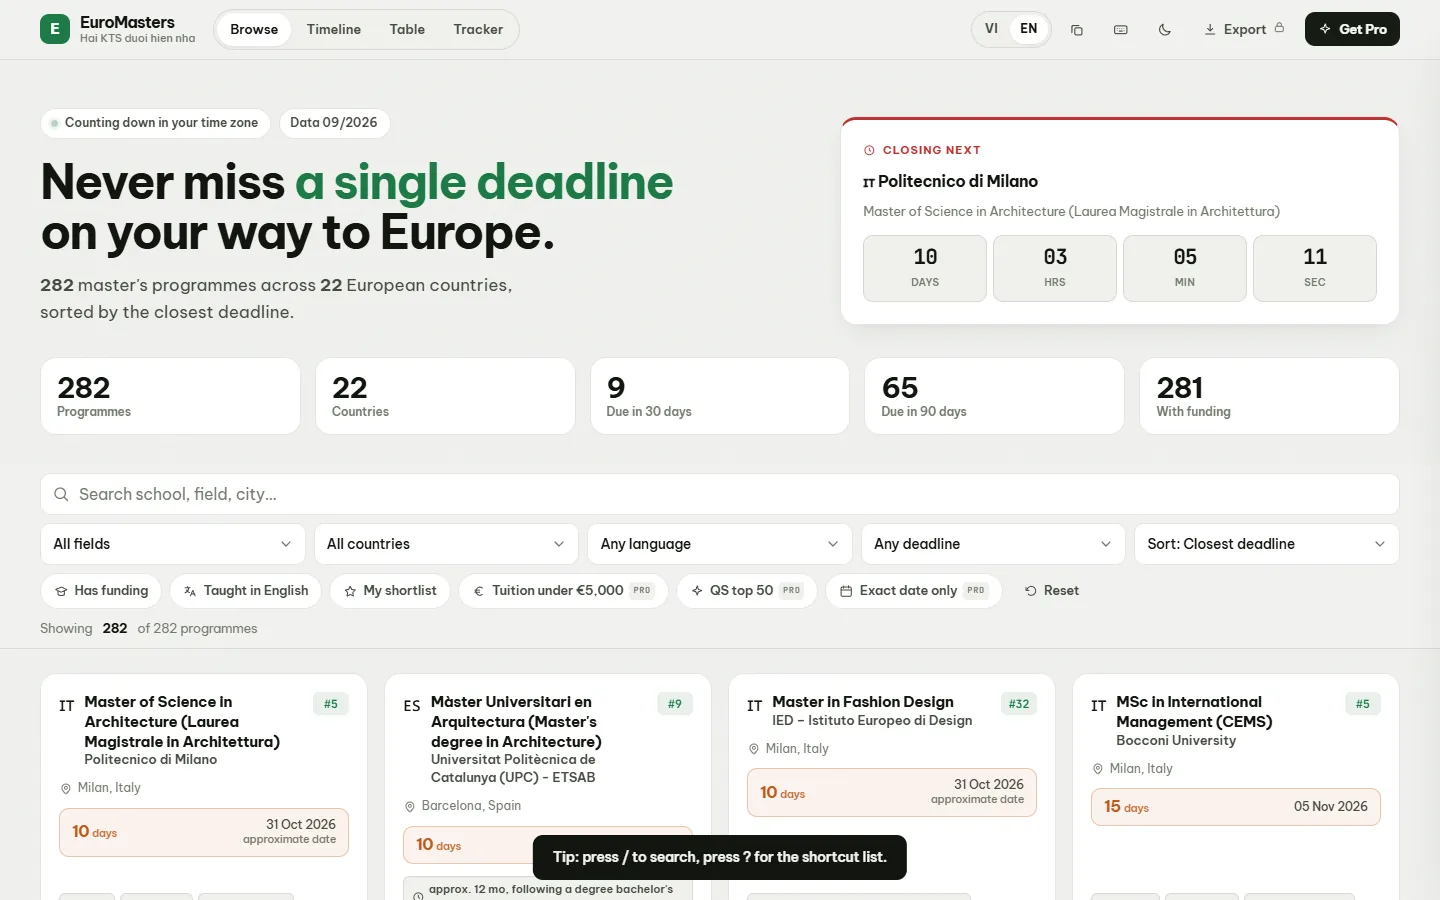
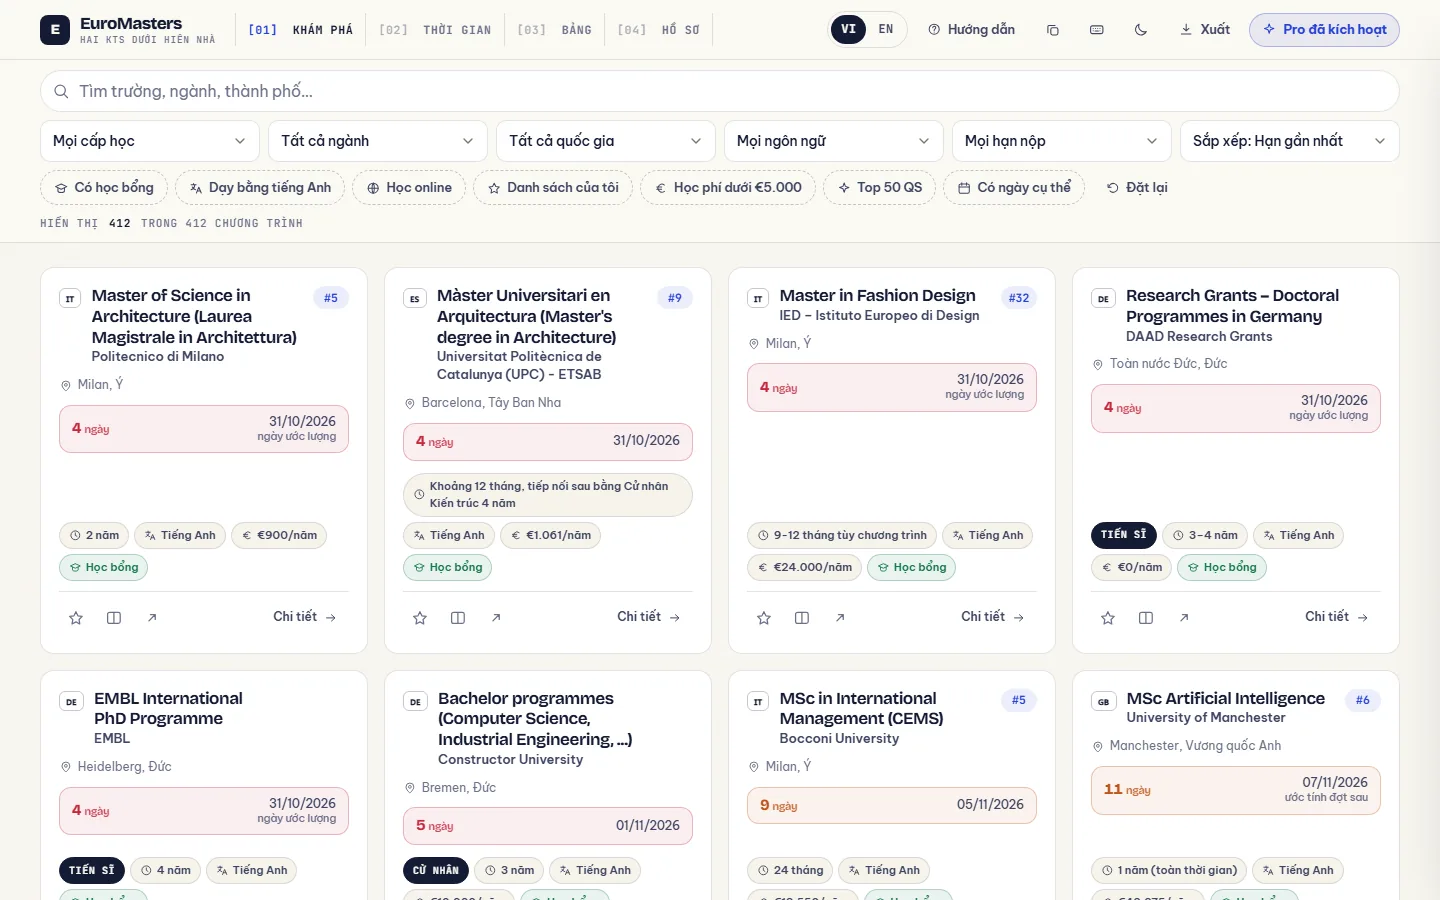
Cập nhật mục nổi bật: 412 chương trình du học (cử nhân, thạc sĩ, tiến sĩ, online)
- Số liệu 282 → 412 chương trình, 22 → 33 quốc gia
- Chữ "Thạc sĩ 2026" đổi thành "Du học 2026", thêm cấp học và học online
- Mục Pro nhắc dùng thử 5 phút
- Ảnh chụp ứng dụng theo giao diện mới

diff --git a/index.html b/index.html
@@ -4,9 +4,9 @@
 <meta charset="UTF-8">
 <meta name="viewport" content="width=device-width, initial-scale=1, viewport-fit=cover">
 <title>Hai KTS dưới hiên nhà</title>
-<meta name="description" content="Hai kiến trúc sư học ở Venezia và Milano: danh sách 282 chương trình thạc sĩ châu Âu 2026 với hạn nộp đếm ngược, cùng các công cụ nhà ở miễn phí. / Two architects trained in Venice and Milan: 282 European master's programmes with live deadlines, plus free housing tools.">
+<meta name="description" content="Hai kiến trúc sư học ở Venezia và Milano: danh sách 412 chương trình cử nhân, thạc sĩ, tiến sĩ và học online ở châu Âu với hạn nộp đếm ngược, cùng các công cụ nhà ở miễn phí. / Two architects trained in Venice and Milan: 412 European bachelor's, master's, PhD and online programmes with live deadlines, plus free housing tools.">
 <meta property="og:title" content="Hai KTS dưới hiên nhà">
-<meta property="og:description" content="282 chương trình thạc sĩ châu Âu 2026 · 282 European master's programmes, 2026">
+<meta property="og:description" content="412 chương trình du học châu Âu 2026: cử nhân, thạc sĩ, tiến sĩ, online · 412 European programmes, 2026">
 <meta property="og:image" content="img/polimi.webp">
 <link rel="preconnect" href="https://fonts.googleapis.com">
 <link rel="preconnect" href="https://fonts.gstatic.com" crossorigin>
@@ -254,7 +254,7 @@ footer{background:var(--lagoon);color:var(--foam);padding-top:clamp(70px,8vw,110
   <div class="wrap">
     <a class="brand" href="https://www.haiktsduoihiennha.com/" target="_blank" rel="noopener" aria-label="Hai KTS dưới hiên nhà · haiktsduoihiennha.com"><b>Hai KTS <i>dưới hiên nhà</i></b><span>Venezia · Milano · Sài Gòn</span></a>
     <ul class="links">
-      <li><a href="#thac-si"><small>01</small><span data-i18n="nav1">Thạc sĩ 2026</span></a></li>
+      <li><a href="#thac-si"><small>01</small><span data-i18n="nav1">Du học 2026</span></a></li>
       <li><a href="#cong-cu"><small>02</small><span data-i18n="nav2">Công cụ nhà ở</span></a></li>
       <li><a href="#tui-minh"><small>03</small><span data-i18n="nav3">Về tụi mình</span></a></li>
       <li><a href="https://www.youtube.com/@HaiKTS_duoihiennha" target="_blank" rel="noopener"><small>▶</small>YouTube</a></li>
@@ -268,30 +268,30 @@ footer{background:var(--lagoon);color:var(--foam);padding-top:clamp(70px,8vw,110
 </header>
 <nav class="sheet" id="sheet" aria-label="Menu">
   <button class="menu-btn close" id="menuClose" data-i18n="close">Đóng</button>
-  <a href="#thac-si"><small>01</small><span data-i18n="nav1">Thạc sĩ 2026</span></a>
+  <a href="#thac-si"><small>01</small><span data-i18n="nav1">Du học 2026</span></a>
   <a href="#cong-cu"><small>02</small><span data-i18n="nav2">Công cụ nhà ở</span></a>
   <a href="#tui-minh"><small>03</small><span data-i18n="nav3">Về tụi mình</span></a>
   <a href="https://www.youtube.com/@HaiKTS_duoihiennha" target="_blank" rel="noopener"><small>▶</small>YouTube</a>
-  <a class="btn solid" style="font:500 15px var(--f-body);margin-top:24px;align-self:flex-start" data-feature href="#" target="_blank" rel="noopener"><span data-i18n="ctaMain">Mở danh sách Thạc sĩ 2026</span> →</a>
+  <a class="btn solid" style="font:500 15px var(--f-body);margin-top:24px;align-self:flex-start" data-feature href="#" target="_blank" rel="noopener"><span data-i18n="ctaMain">Mở danh sách du học 2026</span> →</a>
 </nav>
 
 <main id="top">
-  <section class="hero" aria-label="Thạc sĩ 2026">
+  <section class="hero" aria-label="Du học 2026">
     <img class="poster" src="media/hero-poster.jpg" alt="">
     <video id="heroVid" autoplay muted loop playsinline preload="auto" poster="media/hero-poster.jpg">
       <source src="media/hero-720.mp4" type="video/mp4" media="(max-width: 820px)">
       <source src="media/hero-1080.mp4" type="video/mp4">
     </video>
     <div class="wrap">
-      <div class="tag fade"><span class="pill" data-i18n="pill">Nổi bật kỳ này</span><span class="mono" data-i18n="tagline">Thạc sĩ châu Âu · tuyển sinh 2026–27</span></div>
-      <h1><span class="ln"><span data-i18n="h1a">282 chương trình thạc sĩ.</span></span><span class="ln"><span><em data-i18n="h1b">Không lỡ một hạn nộp.</em></span></span></h1>
+      <div class="tag fade"><span class="pill" data-i18n="pill">Nổi bật kỳ này</span><span class="mono" data-i18n="tagline">Cử nhân · Thạc sĩ · Tiến sĩ · Online · 2026–27</span></div>
+      <h1><span class="ln"><span data-i18n="h1a">412 chương trình du học.</span></span><span class="ln"><span><em data-i18n="h1b">Không lỡ một hạn nộp.</em></span></span></h1>
       <div class="row fade">
         <div>
           <div class="next"><span class="dot"></span><b id="hnDays">22</b><span id="hnText" data-i18n="heroFallback">quốc gia · 10 ngành · hạn nộp đếm ngược từng ngày · miễn phí, có tiếng Việt</span></div>
           <div class="place mono"><span data-i18n="nowShowing">Đang chiếu</span> · <b id="place">Bacino di San Marco, Venezia</b></div>
         </div>
         <div class="acts">
-          <a class="btn solid" data-feature href="#" target="_blank" rel="noopener"><span data-i18n="ctaMain">Mở danh sách Thạc sĩ 2026</span> <span class="ar">→</span></a>
+          <a class="btn solid" data-feature href="#" target="_blank" rel="noopener"><span data-i18n="ctaMain">Mở danh sách du học 2026</span> <span class="ar">→</span></a>
           <a class="btn ghost" href="https://www.youtube.com/@HaiKTS_duoihiennha" target="_blank" rel="noopener">▶ <span data-i18n="watch">Xem video</span></a>
         </div>
       </div>
@@ -308,13 +308,13 @@ footer{background:var(--lagoon);color:var(--foam);padding-top:clamp(70px,8vw,110
         <p class="lead rv" data-i18n="l1">Đọc trực tiếp từ danh sách, nên số ngày luôn đúng với hôm nay.</p>
       </div>
       <div class="stats rv" id="stats">
-        <div class="stat"><b data-k="total">282</b><span data-i18n="s1">chương trình</span></div>
-        <div class="stat"><b data-k="countries">22</b><span data-i18n="s2">quốc gia châu Âu</span></div>
+        <div class="stat"><b data-k="total">412</b><span data-i18n="s1">chương trình</span></div>
+        <div class="stat"><b data-k="countries">33</b><span data-i18n="s2">quốc gia châu Âu</span></div>
         <div class="stat hot"><b data-k="d30">–</b><span data-i18n="s3">đóng trong 30 ngày</span></div>
       </div>
       <div class="rows rv" id="rows"><p class="mono" style="padding:24px 0;color:var(--mute-l)" data-i18n="loading">Đang tải hạn nộp…</p></div>
       <div class="foot1 rv"><span class="mono" data-i18n="approxNote">“Ước tính”: trường công bố hạn theo tháng · luôn kiểm tra lại trên trang trường</span>
-        <a class="btn ink" data-feature href="#" target="_blank" rel="noopener"><span data-i18n="seeAll">Xem cả 282 chương trình</span> <span class="ar">→</span></a></div>
+        <a class="btn ink" data-feature href="#" target="_blank" rel="noopener"><span data-i18n="seeAll">Xem cả 412 chương trình</span> <span class="ar">→</span></a></div>
     </div>
   </section>
 
@@ -325,16 +325,16 @@ footer{background:var(--lagoon);color:var(--foam);padding-top:clamp(70px,8vw,110
           <div class="eyebrow mono rv"><span class="n">01</span><span class="bar"></span><span data-i18n="e1b">Danh sách làm được gì</span></div>
           <h2 class="h2 rv" data-i18n="h2b">Từ “học ở đâu”<br><em>đến “đã nộp xong”.</em></h2>
         </div>
-        <p class="lead rv" data-i18n="l1b">Lọc theo ngành, nước, ngôn ngữ, học bổng, học phí và top QS. Không cần tài khoản.</p>
+        <p class="lead rv" data-i18n="l1b">Lọc theo cấp học, học online, ngành, nước, ngôn ngữ, học bổng và học phí. Không cần tài khoản.</p>
       </div>
       <div class="trio">
-        <a class="shot rv" data-feature href="#" target="_blank" rel="noopener"><div class="im"><img src="img/app-em-browse.webp" alt="" loading="lazy"></div><div class="t"><span class="mono">i</span><h3 data-i18n="f1">Duyệt &amp; lọc 282 chương trình</h3></div></a>
+        <a class="shot rv" data-feature href="#" target="_blank" rel="noopener"><div class="im"><img src="img/app-em-browse.webp" alt="" loading="lazy"></div><div class="t"><span class="mono">i</span><h3 data-i18n="f1">Duyệt &amp; lọc 412 chương trình</h3></div></a>
         <a class="shot rv" data-feature href="#" target="_blank" rel="noopener"><div class="im"><img src="img/app-em-timeline.webp" alt="" loading="lazy"></div><div class="t"><span class="mono">ii</span><h3 data-i18n="f2">Cả năm tuyển sinh trên một trục</h3></div></a>
         <a class="shot rv" data-feature href="#" target="_blank" rel="noopener"><div class="im"><img src="img/app-em-table.webp" alt="" loading="lazy"></div><div class="t"><span class="mono">iii</span><h3 data-i18n="f3">So sánh &amp; theo dõi hồ sơ</h3></div></a>
       </div>
       <div class="pro rv">
         <div class="price">$1.99<small data-i18n="proSmall">Pro · trả một lần</small></div>
-        <p data-i18n="proText">Nhắc hạn vào Google/Apple Calendar · xuất Excel, PDF, Word · checklist 10 giấy tờ · so sánh 6 chương trình · tính chi phí EUR → VND.</p>
+        <p data-i18n="proText">Dùng thử đủ tính năng 5 phút, không cần đăng ký. Pro mở cả 412 chương trình · nhắc hạn vào Google/Apple Calendar · xuất Excel, PDF, Word · checklist 10 giấy tờ · so sánh 6 chương trình · tính chi phí EUR → VND.</p>
         <a class="btn ghost" href="https://haiktsduoihiennha.gumroad.com/l/euromasters-pro" target="_blank" rel="noopener"><span data-i18n="proBtn">Mua key Pro</span> <span class="ar">→</span></a>
       </div>
     </div>
@@ -345,7 +345,7 @@ footer{background:var(--lagoon);color:var(--foam);padding-top:clamp(70px,8vw,110
     <div class="wrap">
       <span class="mono">Politecnico di Milano · Piazza Leonardo da Vinci</span>
       <h2 data-i18n="bandH">Hồ sơ năm sau<br><em>bắt đầu từ hôm nay.</em></h2>
-      <a class="btn solid" data-feature href="#" target="_blank" rel="noopener"><span data-i18n="ctaMain">Mở danh sách Thạc sĩ 2026</span> <span class="ar">→</span></a>
+      <a class="btn solid" data-feature href="#" target="_blank" rel="noopener"><span data-i18n="ctaMain">Mở danh sách du học 2026</span> <span class="ar">→</span></a>
     </div>
   </section>
 
@@ -407,10 +407,10 @@ footer{background:var(--lagoon);color:var(--foam);padding-top:clamp(70px,8vw,110
   <div class="wrap">
     <div class="fcta">
       <h2 data-i18n="footH">Không lỡ<br><em>một hạn nộp nào.</em></h2>
-      <a class="btn solid" data-feature href="#" target="_blank" rel="noopener"><span data-i18n="ctaMain">Mở danh sách Thạc sĩ 2026</span> <span class="ar">→</span></a>
+      <a class="btn solid" data-feature href="#" target="_blank" rel="noopener"><span data-i18n="ctaMain">Mở danh sách du học 2026</span> <span class="ar">→</span></a>
     </div>
     <div class="fgrid">
-      <div class="fcol"><h4 data-i18n="ft1">Nổi bật kỳ này</h4><a data-feature href="#" target="_blank" rel="noopener" data-i18n="ftList">Danh sách Thạc sĩ 2026</a><a href="https://haiktsduoihiennha.gumroad.com/l/euromasters-pro" target="_blank" rel="noopener">EuroMasters Pro</a><a href="https://www.haiktsduoihiennha.com/about-us" target="_blank" rel="noopener" data-i18n="nav3">Về tụi mình</a></div>
+      <div class="fcol"><h4 data-i18n="ft1">Nổi bật kỳ này</h4><a data-feature href="#" target="_blank" rel="noopener" data-i18n="ftList">Danh sách du học 2026</a><a href="https://haiktsduoihiennha.gumroad.com/l/euromasters-pro" target="_blank" rel="noopener">EuroMasters Pro</a><a href="https://www.haiktsduoihiennha.com/about-us" target="_blank" rel="noopener" data-i18n="nav3">Về tụi mình</a></div>
       <div class="fcol"><h4 data-i18n="ft2">Công cụ</h4><div class="fcol" id="flinks"></div></div>
       <div><h4 data-i18n="ft3">Đọc &amp; nhận tin · tất cả kênh</h4><div class="socials" id="socials"></div></div>
     </div>
@@ -427,38 +427,38 @@ footer{background:var(--lagoon);color:var(--foam);padding-top:clamp(70px,8vw,110
   var DATA_URL="https://nhan0311.github.io/euromasters-tracker/data/programs.json";
 
   var T={
-   vi:{nav1:"Thạc sĩ 2026",nav2:"Công cụ nhà ở",nav3:"Về tụi mình",menu:"Menu",close:"Đóng",ctaShort:"Mở danh sách",ctaMain:"Mở danh sách Thạc sĩ 2026",
-    pill:"Nổi bật kỳ này",tagline:"Thạc sĩ châu Âu · tuyển sinh 2026–27",h1a:"282 chương trình thạc sĩ.",h1b:"Không lỡ một hạn nộp.",
-    heroFallback:"quốc gia · 10 ngành · hạn nộp đếm ngược từng ngày · miễn phí, có tiếng Việt",heroNext:"ngày là hạn gần nhất: ",days:"ngày",nowShowing:"Đang chiếu",watch:"Xem video",
+   vi:{nav1:"Du học 2026",nav2:"Công cụ nhà ở",nav3:"Về tụi mình",menu:"Menu",close:"Đóng",ctaShort:"Mở danh sách",ctaMain:"Mở danh sách du học 2026",
+    pill:"Nổi bật kỳ này",tagline:"Cử nhân · Thạc sĩ · Tiến sĩ · Online · 2026–27",h1a:"412 chương trình du học.",h1b:"Không lỡ một hạn nộp.",
+    heroFallback:"quốc gia · cử nhân, thạc sĩ, tiến sĩ, online · hạn nộp đếm ngược từng ngày · có tiếng Việt",heroNext:"ngày là hạn gần nhất: ",days:"ngày",nowShowing:"Đang chiếu",watch:"Xem video",
     e1:"Đang đếm ngược",h2a:"Những hạn nộp<br><em>sắp đóng.</em>",l1:"Đọc trực tiếp từ danh sách, nên số ngày luôn đúng với hôm nay.",
     s1:"chương trình",s2:"quốc gia châu Âu",s3:"đóng trong 30 ngày",loading:"Đang tải hạn nộp…",
-    approxNote:"“Ước tính”: trường công bố hạn theo tháng · luôn kiểm tra lại trên trang trường",seeAll:"Xem cả 282 chương trình",due:"Hạn",approx:"ước tính",perYear:"/năm",
-    e1b:"Danh sách làm được gì",h2b:"Từ “học ở đâu”<br><em>đến “đã nộp xong”.</em>",l1b:"Lọc theo ngành, nước, ngôn ngữ, học bổng, học phí và top QS. Không cần tài khoản.",
-    f1:"Duyệt &amp; lọc 282 chương trình",f2:"Cả năm tuyển sinh trên một trục",f3:"So sánh &amp; theo dõi hồ sơ",
-    proSmall:"Pro · trả một lần",proText:"Nhắc hạn vào Google/Apple Calendar · xuất Excel, PDF, Word · checklist 10 giấy tờ · so sánh 6 chương trình · tính chi phí EUR → VND.",proBtn:"Mua key Pro",
+    approxNote:"“Ước tính”: trường công bố hạn theo tháng · luôn kiểm tra lại trên trang trường",seeAll:"Xem cả 412 chương trình",due:"Hạn",approx:"ước tính",perYear:"/năm",
+    e1b:"Danh sách làm được gì",h2b:"Từ “học ở đâu”<br><em>đến “đã nộp xong”.</em>",l1b:"Lọc theo cấp học, học online, ngành, nước, ngôn ngữ, học bổng và học phí. Không cần tài khoản.",
+    f1:"Duyệt &amp; lọc 412 chương trình",f2:"Cả năm tuyển sinh trên một trục",f3:"So sánh &amp; theo dõi hồ sơ",
+    proSmall:"Pro · trả một lần",proText:"Dùng thử đủ tính năng 5 phút, không cần đăng ký. Pro mở cả 412 chương trình · nhắc hạn vào Google/Apple Calendar · xuất Excel, PDF, Word · checklist 10 giấy tờ · so sánh 6 chương trình · tính chi phí EUR → VND.",proBtn:"Mua key Pro",
     bandH:"Hồ sơ năm sau<br><em>bắt đầu từ hôm nay.</em>",
     suE:"Quà cho người đọc",suH:"Nhận 2 ebook<br><em>du học Ý miễn phí.</em>",suL:"Cheat Code du học Ý và Cẩm nang du học Ý cho kiến trúc sư. Kèm 1–2 thư mỗi tháng về kiến trúc châu Âu và du học.",suLab:"Email của bạn",suBtn:"Gửi cho tôi",suFine:"Bấm gửi là đồng ý nhận email · huỷ bất cứ lúc nào.",suOk:"Gần xong rồi! Mở hộp thư và bấm <b>Xác nhận</b> để nhận 2 ebook. Không thấy thư thì xem mục Quảng cáo hoặc Spam.",
     e2:"Công cụ nhà ở",h2c:"Trước khi mua, thuê<br><em>hay xây một căn nhà.</em>",l2:"Miễn phí, chạy ngay trên trình duyệt.",
     e3:"Về tụi mình",aboutQ:"Nhân và Mai, hai kiến trúc sư. <em>Từ Venezia &amp; Milano, về Sài Gòn.</em>",
     aboutT:"Nhân học ở IUAV Venezia, Mai ở Politecnico di Milano. Giờ tụi mình có một xưởng thiết kế nhỏ dưới hiên một căn nhà cũ ở quận 3, và kể chuyện nghề, chuyện ở Ý trên kênh Hai KTS dưới hiên nhà.",
-    story:"Đọc câu chuyện",footH:"Không lỡ<br><em>một hạn nộp nào.</em>",ft1:"Nổi bật kỳ này",ftList:"Danh sách Thạc sĩ 2026",ft2:"Công cụ",ft3:"Đọc &amp; nhận tin · tất cả kênh",
-    credit:"Hình ảnh: footage của tụi mình ở Venezia và Milano",fallbackRow:"Mở danh sách để xem hạn nộp hôm nay",fallbackSub:"282 chương trình, đếm ngược theo ngày"},
-   en:{nav1:"Master's 2026",nav2:"Housing tools",nav3:"About us",menu:"Menu",close:"Close",ctaShort:"Open the list",ctaMain:"Open the Master's 2026 list",
-    pill:"Featured this issue",tagline:"European master's · 2026–27 intake",h1a:"282 master's programmes.",h1b:"Never miss a deadline.",
-    heroFallback:"countries · 10 fields · deadlines counted down daily · free, in English and Vietnamese",heroNext:"days to the next deadline: ",days:"days",nowShowing:"Now showing",watch:"Watch on YouTube",
+    story:"Đọc câu chuyện",footH:"Không lỡ<br><em>một hạn nộp nào.</em>",ft1:"Nổi bật kỳ này",ftList:"Danh sách du học 2026",ft2:"Công cụ",ft3:"Đọc &amp; nhận tin · tất cả kênh",
+    credit:"Hình ảnh: footage của tụi mình ở Venezia và Milano",fallbackRow:"Mở danh sách để xem hạn nộp hôm nay",fallbackSub:"412 chương trình, đếm ngược theo ngày"},
+   en:{nav1:"Study 2026",nav2:"Housing tools",nav3:"About us",menu:"Menu",close:"Close",ctaShort:"Open the list",ctaMain:"Open the 2026 study list",
+    pill:"Featured this issue",tagline:"Bachelor's · Master's · PhD · Online · 2026–27",h1a:"412 programmes in Europe.",h1b:"Never miss a deadline.",
+    heroFallback:"countries · bachelor's, master's, PhD, online · deadlines counted down daily · in English and Vietnamese",heroNext:"days to the next deadline: ",days:"days",nowShowing:"Now showing",watch:"Watch on YouTube",
     e1:"Counting down",h2a:"Deadlines<br><em>closing soon.</em>",l1:"Read live from the list, so every count is right for today.",
     s1:"programmes",s2:"European countries",s3:"close within 30 days",loading:"Loading deadlines…",
-    approxNote:"“Estimated”: the school publishes a month, not a date · always confirm on the school's site",seeAll:"See all 282 programmes",due:"Due",approx:"estimated",perYear:"/yr",
-    e1b:"What the list does",h2b:"From “where to study”<br><em>to “application sent”.</em>",l1b:"Filter by field, country, language, scholarship, tuition and QS rank. No account needed.",
-    f1:"Browse &amp; filter 282 programmes",f2:"The whole intake on one timeline",f3:"Compare &amp; track applications",
-    proSmall:"Pro · one-time",proText:"Deadline reminders in Google/Apple Calendar · Excel, PDF and Word export · 10-document checklist · compare 6 programmes · cost calculator EUR → VND.",proBtn:"Get the Pro key",
+    approxNote:"“Estimated”: the school publishes a month, not a date · always confirm on the school's site",seeAll:"See all 412 programmes",due:"Due",approx:"estimated",perYear:"/yr",
+    e1b:"What the list does",h2b:"From “where to study”<br><em>to “application sent”.</em>",l1b:"Filter by level, online study, field, country, language, scholarship and tuition. No account needed.",
+    f1:"Browse &amp; filter 412 programmes",f2:"The whole intake on one timeline",f3:"Compare &amp; track applications",
+    proSmall:"Pro · one-time",proText:"Try every feature free for 5 minutes, no sign-up. Pro opens all 412 programmes · deadline reminders in Google/Apple Calendar · Excel, PDF and Word export · 10-document checklist · compare 6 programmes · cost calculator EUR → VND.",proBtn:"Get the Pro key",
     bandH:"Next year's application<br><em>starts today.</em>",
     suE:"A gift for readers",suH:"Get 2 free ebooks<br><em>on studying in Italy.</em>",suL:"The Italy study cheat code and our guide for architects (in Vietnamese). Plus 1–2 letters a month on European architecture and study abroad.",suLab:"Your email",suBtn:"Send them to me",suFine:"By sending you agree to receive email · unsubscribe any time.",suOk:"Almost there! Open your inbox and click <b>Confirm</b> to get both ebooks. Check Promotions or Spam if you can't see it.",
     e2:"Housing tools",h2c:"Before you buy, rent<br><em>or build a house.</em>",l2:"Free, and they run right in your browser.",
     e3:"About us",aboutQ:"Nhân and Mai, two architects. <em>From Venice &amp; Milan, back to Saigon.</em>",
     aboutT:"Nhân studied at IUAV Venezia, Mai at Politecnico di Milano. Today we run a small design studio under the porch of an old house in District 3, and share stories of the profession and of life in Italy on our channel, Hai KTS dưới hiên nhà.",
-    story:"Read our story",footH:"Never miss<br><em>a single deadline.</em>",ft1:"Featured this issue",ftList:"Master's 2026 list",ft2:"Tools",ft3:"Read &amp; follow · every channel",
-    credit:"Images: our own footage from Venice and Milan",fallbackRow:"Open the list to see today's deadlines",fallbackSub:"282 programmes, counted down daily"}
+    story:"Read our story",footH:"Never miss<br><em>a single deadline.</em>",ft1:"Featured this issue",ftList:"2026 study list",ft2:"Tools",ft3:"Read &amp; follow · every channel",
+    credit:"Images: our own footage from Venice and Milan",fallbackRow:"Open the list to see today's deadlines",fallbackSub:"412 programmes, counted down daily"}
   };
   var TOOLS=[
     {img:"img/app-map.webp",wide:1,url:SITE+"b%E1%BA%A3n-%C4%91%E1%BB%93-ng%E1%BA%ADp-l%E1%BB%A5t-gi%C3%A1-b%C4%91s-tp-hcm",
@@ -524,7 +524,7 @@ footer{background:var(--lagoon);color:var(--foam);padding-top:clamp(70px,8vw,110
   fetch(DATA_URL).then(function(r){return r.json()}).then(function(D){
     var now=new Date(),P=D.programs||[];
     var L=P.map(function(p){var o=occ(p.deadline,now)[0];return o?{p:p,d:o.date,n:days(o.date),approx:o.approx}:null}).filter(Boolean).sort(function(a,b){return a.d-b.d});
-    DATA={L:L};var S={total:P.length,countries:(D.meta&&D.meta.countries||[]).length||22,d30:L.filter(function(x){return x.n<=30}).length};
+    DATA={L:L};var S={total:P.length,countries:(D.meta&&D.meta.countries||[]).length||33,d30:L.filter(function(x){return x.n<=30}).length};
     $$("#stats [data-k]").forEach(function(b){b.dataset.v=S[b.dataset.k];b.textContent=S[b.dataset.k];if($("#stats").classList.contains("in"))count(b,S[b.dataset.k])});
     renderRows();
   }).catch(function(){DATA="err";renderRows()});
